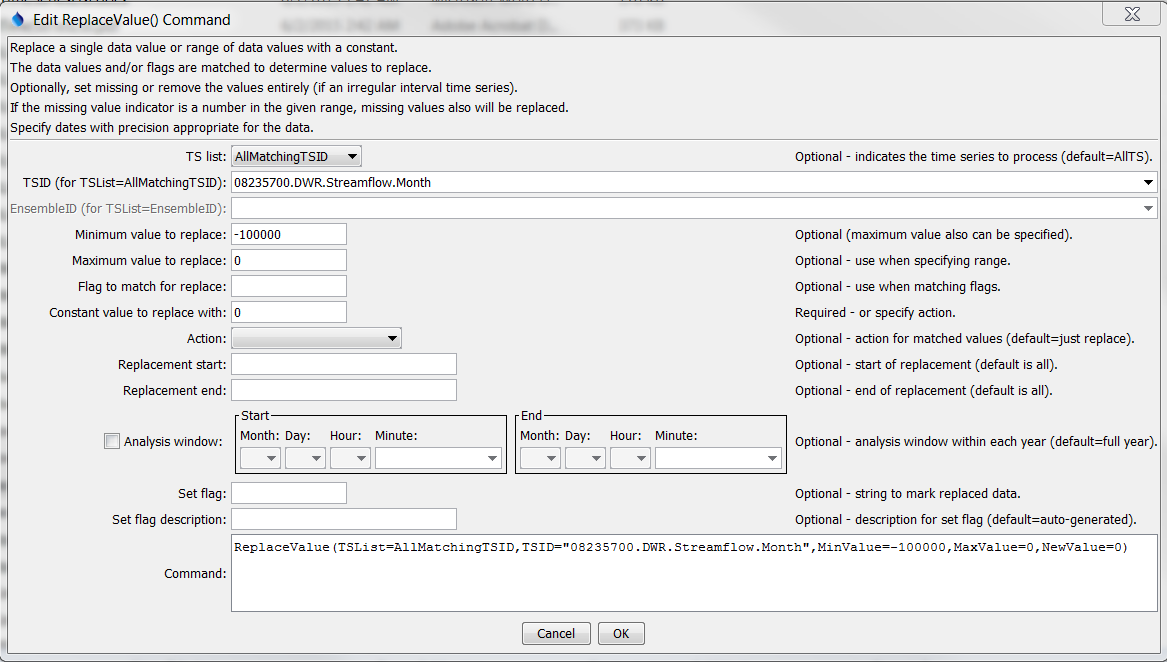
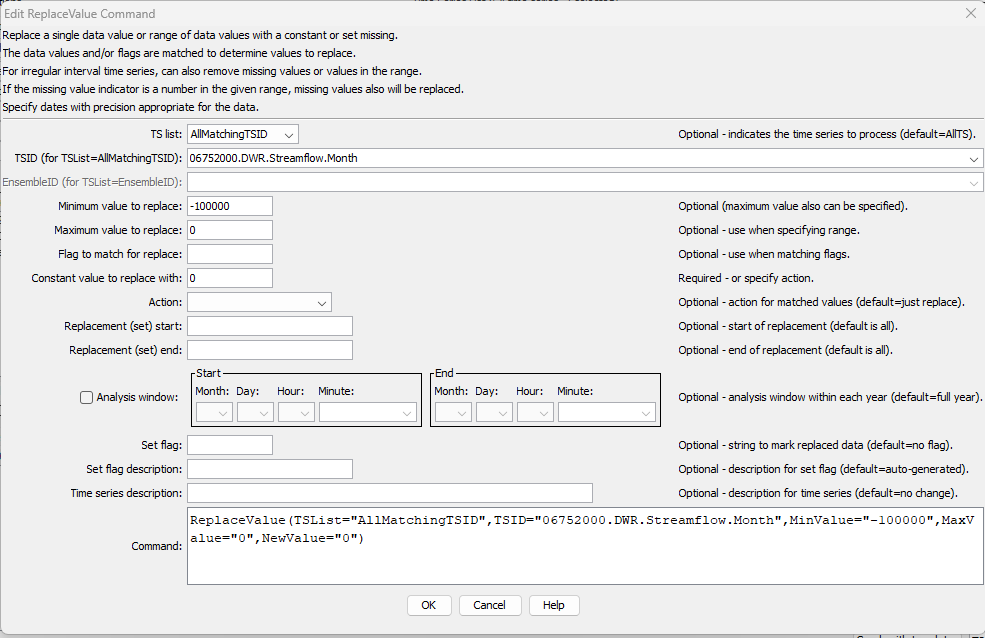
Update ReplaceValue documentation, issue #135
Also update TextEdit with more regular expression examples.
Command line options have been added to enable/disable datastores.

Changed region(s): [[0.0, 0.0, 1.0, 1.0]]

diff --git a/mkdocs-project/docs/command-ref/TextEdit/TextEdit.md b/mkdocs-project/docs/command-ref/TextEdit/TextEdit.md
@@ -3,6 +3,7 @@
 *   [Overview](#overview)
 *   [Command Editor](#command-editor)
 *   [Command Syntax](#command-syntax)
+    +   [Search and Replace Example Patterns](#search-and-replace-example-patterns)
 *   [Examples](#examples)
 *   [Troubleshooting](#troubleshooting)
 *   [See Also](#see-also)
@@ -20,7 +21,7 @@ In the future this command may be enhanced to add the following features:
 *   allow multiple operations in one command
 
 The search and replace functionality is implemented using Java pattern matching and regular expressions
-(see [`Pattern`](https://docs.oracle.com/javase/8/docs/api/java/util/regex/Pattern.html) class documentation).
+(see the Java [`Pattern`](https://docs.oracle.com/javase/8/docs/api/java/util/regex/Pattern.html) class documentation).
 It can be complicated to deal with special characters and patterns as they are processed
 through TSTool commands and underlying Java code.
 For example, some patterns pass through to the underlying code without changes whereas others
@@ -30,18 +31,6 @@ The following examples illustrate how to perform common search and replace tasks
 The [`ReadPropertiesFromFile`](../ReadPropertiesFromFile/ReadPropertiesFromFile.md) command
 can be used to read one or more properties from a text file
 and the property values can be used to replace text in an initial file.
-
-**<p style="text-align: center;">
-Search and Replace Examples
-</p>**
-
-| **`SearchFor`**&nbsp;&nbsp;&nbsp;&nbsp;&nbsp;&nbsp;&nbsp;&nbsp;&nbsp;&nbsp;&nbsp;&nbsp;&nbsp;&nbsp;&nbsp;&nbsp;&nbsp;&nbsp;&nbsp;&nbsp;&nbsp;&nbsp;&nbsp;&nbsp;&nbsp;&nbsp;&nbsp;&nbsp;&nbsp;&nbsp;&nbsp;&nbsp;&nbsp;&nbsp;&nbsp;&nbsp;&nbsp;&nbsp; | **`ReplaceWith`**&nbsp;&nbsp;&nbsp;&nbsp;&nbsp;&nbsp;&nbsp;&nbsp;&nbsp;&nbsp;&nbsp;&nbsp;&nbsp;&nbsp;&nbsp;&nbsp;&nbsp;&nbsp;&nbsp;&nbsp;&nbsp;&nbsp;&nbsp;&nbsp;&nbsp;&nbsp;&nbsp;&nbsp;&nbsp;&nbsp;&nbsp;&nbsp;&nbsp;&nbsp;&nbsp;&nbsp;&nbsp;&nbsp;&nbsp;&nbsp; | **Description** |
-| -- | -- | -- |
-| `\r\n` | `\n` | Replace Windows end of line with Linux end of line. | 
-| `\n` | `\r\n` | Replace Linux end of line Windows end of line with Linux end of line. | 
-| `StationId` | `\$\{StationId}` | Replace the static string `StationId` with a property `${StationId}`.  The dollar sign has special meaning to the pattern matcher (end of line) and braces also have meaning.  Additionally, using `${` directly causes TSTool to try to replace with a property value.  Using backslashes in front of the first two characters in the `ReplaceWith` parameter allows the string to pass through TSTool and pattern matcher without interpretation. |
-| `Some.*Text` | `SomeNewText` | The `*` typically cannot be used alone and therefore `.*` indicates "any character followed by one or more characters".  The example shows how intervening characters in the original string can be replaced with new text. |
-| `SomeFile\..*\.ext` | `SomeFile\.ABC\.ext` | Similar to previous example except escape the period from interpretation by pattern matcher and treat literally, needed when handling filenames with extensions. |
 
 ## Command Editor ##
 
@@ -73,10 +62,29 @@ Command Parameters
 | **Parameter**&nbsp;&nbsp;&nbsp;&nbsp;&nbsp;&nbsp;&nbsp;&nbsp;&nbsp;&nbsp;&nbsp;&nbsp;&nbsp;&nbsp;&nbsp;&nbsp;&nbsp;&nbsp;&nbsp;&nbsp;&nbsp; | **Description** | **Default**&nbsp;&nbsp;&nbsp;&nbsp;&nbsp;&nbsp;&nbsp;&nbsp;&nbsp;&nbsp; |
 | --------------|-----------------|----------------- |
 | `InputFile`<br>**required** | The name of the input file.  Can be specified using `${Property}`. | None - must be specified. |
-| `SearchFor`<br>**required** | The literal string to search for in the input file.  Can be specified using `${Property}`. | None - must be specified. |
-| `ReplaceWith`<br>**required** | The literal string to use for the replacement string in the output file.  Can be specified using `${Property}`.<br>Use the syntax `\$\{Property}` to insert property notation in the output file. | None - must be specified. |
+| `SearchFor`<br>**required** | The string to search for in the input file.  Can be specified using `${Property}`. See the examples in [Search and Replace Example Patterns](#search-and-replace-example-patterns). | None - must be specified. |
+| `ReplaceWith`<br>**required** | The string to use for the replacement string in the output file.  See the examples in [Search and Replace Example Patterns](#search-and-replace-example-patterns). | None - must be specified. |
 | `OutputFile`<br>**required** | The name of the output file.  Can be specified using `${Property}`. | None - must be specified. |
 | `IfInputNotFound` | Indicate an action if the source file is not found:  `Ignore` (ignore the missing file and do not warn), `Warn` (generate a warning message), `Fail` (generate a failure message) | `Warn` |
+
+### Search and Replace Example Patterns ###
+
+The following table lists various combinations of `SearchFor` and `ReplaceWith` command parameter values.
+The dollar sign has special meaning to the pattern matcher (end of line) and braces also have meaning.  Using `${ }` directly causes TSTool to try to replace with a property value.  Using backslashes in front of characters allows the string to pass through TSTool without being interpreted as a processor `${Property}` so that the pattern matcher can handle.
+
+**<p style="text-align: center;">
+Search and Replace Example Patterns
+</p>**
+
+| **`SearchFor`**&nbsp;&nbsp;&nbsp;&nbsp;&nbsp;&nbsp;&nbsp;&nbsp;&nbsp;&nbsp;&nbsp;&nbsp;&nbsp;&nbsp;&nbsp;&nbsp;&nbsp;&nbsp;&nbsp;&nbsp;&nbsp;&nbsp;&nbsp;&nbsp;&nbsp;&nbsp;&nbsp;&nbsp;&nbsp;&nbsp;&nbsp;&nbsp;&nbsp;&nbsp;&nbsp;&nbsp;&nbsp;&nbsp; | **`ReplaceWith`**&nbsp;&nbsp;&nbsp;&nbsp;&nbsp;&nbsp;&nbsp;&nbsp;&nbsp;&nbsp;&nbsp;&nbsp;&nbsp;&nbsp;&nbsp;&nbsp;&nbsp;&nbsp;&nbsp;&nbsp;&nbsp;&nbsp;&nbsp;&nbsp;&nbsp;&nbsp;&nbsp;&nbsp;&nbsp;&nbsp;&nbsp;&nbsp;&nbsp;&nbsp;&nbsp;&nbsp;&nbsp;&nbsp;&nbsp;&nbsp; | **Description** |
+| -- | -- | -- |
+| `\r\n` | `\n` | Replace Windows end of line with Linux end of line. | 
+| `\n` | `\r\n` | Replace Linux end of line Windows end of line with Linux end of line. | 
+| `StationId` | `\$\{StationId}` | Replace the static string `StationId` with a property `${StationId}`. |
+| `Some.*Text` | `SomeNewText` | The `*` typically cannot be used alone and therefore `.*` indicates "any character followed by one or more characters".  The example shows how intervening characters in the original string can be replaced with new text. |
+| `SomeFile\..*\.ext` | `SomeFile\.ABC\.ext` | Similar to previous example except escape the period from interpretation by pattern matcher and treat literally, needed when handling filenames with extensions. |
+| `\$\{StationId\}` | `1234` | Replace the string `${StationId}` with a literal string `1234`. |
+| `\$\{StationId\}` | `${StationId}` | Replace the string `${StationId}` with the property value in `{StationId}`. |
 
 ## Examples ##
 

diff --git a/mkdocs-project/docs/command-ref/ReplaceValue/ReplaceValue.md b/mkdocs-project/docs/command-ref/ReplaceValue/ReplaceValue.md
@@ -11,9 +11,19 @@
 
 ## Overview ##
 
-The `ReplaceValue` command replaces a range of values in a time series with a constant value,
-sets the values to missing, or removes the values (if an irregular time series).
-If the missing value indicator is a number in the range, missing values also will be replaced.
+The `ReplaceValue` command performs the following tasks:
+
+*  replaces a range of numerical values in a time series with a constant value
+*  or sets the values to missing
+
+Irregular interval time series, which store each date/time and value, can also be updated to:
+
+*   remove values matching the numerical range
+*   remove missing values
+
+If the missing value indicator is a number in the range (e.g., `-999`), missing values also will be replaced.
+The current convention is to use `NaN` for missing, which is handled without specifying a range.
+
 The time series data flag can be checked in place of or addition to checking the numerical values.
 This command is useful for filtering out erroneous data values.
 See also the [`CheckTimeSeries`](../CheckTimeSeries/CheckTimeSeries.md) command,
@@ -55,7 +65,7 @@ Command Parameters
 |`MaxValue`|The maximum value to replace.|If not specified, only data values that exactly match the minimum value will be replaced.|
 |`MatchFlag`|The flag to match.  If specified in addition to `MinValue`, then the value and flag must be matched in order to perform the replacement.  A case-sensitive comparison is made and the data value flag must exactly match MatchFlag.  In the future additional flexibility may be added to match a substring, etc. If `Action=SetMissing`, the original data flag value will remain.  Specifying `SetFlag` will result in the original data flag being modified.|`MinValue` and/or `MatchFlag` must be specified.|
 |`NewValue`|The new data value.|Required, unless the Action parameter is specified.|
-|`Action`|An additional action to take with values that are matched:<ul><li>`Remove` – remove the data points.  This can only be specified for irregular interval time series and will be interpreted as SetMissing for regular interval time series.</li><li>`SetMissing` – set values to missing.</li></ul>|No additional action is taken and the `NewValue` parameter must be specified.|
+|`Action`|An additional action to take with values that are matched:<ul><li>`Remove` – remove the data points.  This can only be specified for irregular interval time series and will be interpreted as `SetMissing` for regular interval time series.</li><li>`RemoveMissing` - remove missing values.  This can only be specified for irregular interval time series.</li><li>`SetMissing` – set values to missing.</li></ul>|No special action is taken.  The `NewValue` parameter must be specified.|
 |`SetStart`|The date/time to start filling, if other than the full time series period.  Can be specified with processor `${Property}`.|Check the full period.|
 |`SetEnd`|The date/time to end filling, if other than the full time series period.  Can be specified with processor `${Property}`.|Check the full period.|
 |`AnalysisWindowStart`|The starting date/time within the calendar year to replace data.  The window CANNOT cross calendar year boundaries (this may be allowed in the future).  Use multiple commands if necessary.|Process each full year.|
@@ -67,7 +77,8 @@ Command Parameters
 
 See the [automated tests](https://github.com/OpenCDSS/cdss-app-tstool-test/tree/master/test/commands/ReplaceValue).
 
-A sample command file to process a time series from the [State of Colorado’s HydroBase database](../../datastore-ref/CO-HydroBase/CO-HydroBase.md)
+A sample command file to remove negative values from a time series from the
+[State of Colorado’s HydroBase database](../../datastore-ref/CO-HydroBase/CO-HydroBase.md)
 is as follows:
 
 ```text

diff --git a/mkdocs-project/docs/command-ref/AppendFile/AppendFile.md b/mkdocs-project/docs/command-ref/AppendFile/AppendFile.md
@@ -70,8 +70,8 @@ Command Parameters
 |`InputFile`|The name of one or more files to append, specified as file patterns separated by commas:<ul><li>No `*` in filename – match one file</li><li>`*`– match all files in input directory (working directory by default).</li><li>`*.ext` – match all files with extension</li></ul><br>Can specify using processor `${Property}`.| Specify file pattern(s) or text to append.|
 | `AppendText` | Text to append to the input file. | Specify `InputFile` or text. |
 |`OutputFile`<br>**required**|The output file that will be created from input.  The file is created if it does not exist.  If the output file matches an input file, the input file will be overwritten.  Use the [`RemoveFile`](../RemoveFile/RemoveFile.md) command to remove the old file.  Can specify using processor `${Property}`.|None – must be specified.|
-|`IncludeText`|A regular expression pattern to include text.  Only the matching lines will be included.  `*` can be used as wildcard to match beginning and ending of a string.  The `*` is converted to `.*` and the pattern uses the [Java regular expression syntax](https://en.wikipedia.org/wiki/Regular_expression).|Append all lines.|
-|`ExcludeText`|A regular expression pattern to exclude text.  `*` can be used as wildcard to match beginning and ending of a string.  Matching lines will be excluded from the append.|Append all lines.|
+|`IncludeText`|A regular expression pattern to include text.  Only the matching lines will be included.  `*` can be used as wildcard to match beginning and ending of a string.  The `*` is converted to `.*` and the pattern uses the [Java regular expression syntax](https://en.wikipedia.org/wiki/Regular_expression). Can include `${Property}` notation, which is evaluated before the regular expression is interpreted. If the file contains the literal string `${Something}`, use `*\$\{Something\}*`. |Append all lines.|
+|`ExcludeText`|A regular expression pattern to exclude text.  `*` can be used as wildcard to match beginning and ending of a string.  Matching lines will be excluded from the append. Can include `${Property}` notation, which is evaluated before the regular expression is interpreted. If the file contains the literal string `${Something}`, use `*\$\{Something\}*`. |Append all lines.|
 |`Newline`|Indicate the newline character to use at the end of lines.  Normally the operating system default is ok (`\n` for Linux and for Mac, `\r\n for Windows`), but the newline may need to be specified to ensure cross-platform compatibility.|Operating system default.|
 |`IfNotFound`|Indicate action if the file is not found, one of:<ul><li>`Ignore` – ignore the missing file (do not warn).</li><li>`Warn` – generate a warning (use this if the file truly is expected and a missing file is a cause for concern).</li><li>`Fail` – generate a failure (use this if the file truly is expected and a missing file is a cause for concern).</li></ul>|`Warn`|
 
@@ -79,7 +79,7 @@ The following table lists regular expression examples:
 
 |**`IncludeText` Regular Expression**&nbsp;&nbsp;&nbsp;&nbsp;&nbsp;&nbsp;&nbsp;&nbsp;|**Description**|
 |--------------|-----------------|
-|`*\Q-\E*`|Match lines that start with any character, end with any character, and contain a dash.  The `\Q` and `\E` characters are special characters to start and end a quoted character, and are necessary because the dash has special meaning in a regular expression.|
+|`*\Q-\E*`|Match lines that start with any character, end with any character, and contain a dash, for example to match lines with ISO 8601 date/time (`2022-01-01`, etc.).  The `\Q` and `\E` characters are special characters to start and end a quoted character, and are necessary because the dash has special meaning in a regular expression.|
 
 ## Examples ##
 

diff --git a/mkdocs-project/docs/command-ref/SetTimeSeriesPropertiesFromTable/SetTimeSeriesPropertiesFromTable.md b/mkdocs-project/docs/command-ref/SetTimeSeriesPropertiesFromTable/SetTimeSeriesPropertiesFromTable.md
@@ -50,11 +50,11 @@ Command Parameters
 | `TSList`|Indicates the list of time series to be processed, one of:<br><ul><li>`AllMatchingTSID` – all time series that match the TSID (single TSID or TSID with wildcards) will be processed.</li><li>`AllTS` – all time series before the command.</li><li>`EnsembleID` – all time series in the ensemble will be processed (see the EnsembleID parameter).</li><li>`FirstMatchingTSID` – the first time series that matches the TSID (single TSID or TSID with wildcards) will be processed.</li><li>`LastMatchingTSID` – the last time series that matches the TSID (single TSID or TSID with wildcards) will be processed.</li><li>`SelectedTS` – the time series are those selected with the [`SelectTimeSeries`](../SelectTimeSeries/SelectTimeSeries.md) command.</li></ul> | `AllTS` |
 | `TSID`|The time series identifier or alias for the time series to be processed, using the `*` wildcard character to match multiple time series.  Can be specified using `${Property}`.|Required if `TSList=*TSID`|
 | `EnsembleID`|The ensemble to be processed, if processing an ensemble. Can be specified using `${Property}`.|Required if `TSList=*EnsembleID`|
-|`TableID`<br>**required**|The identifier for the table that contains properties.|None – must be specified.|
-|`TableTSIDColumn`<br>**required**|Table column name that is used to match the time series identifier for processing.|None – must be specified.|
+|`TableID`<br>**required**|The identifier for the table that contains properties.  Can be specified using `${Property}`. |None – must be specified.|
+|`TableTSIDColumn`<br>**required**|Table column name that is used to match the time series identifier for processing.  Can be specified using `${Property}`. |None – must be specified.|
 |`TableTSIDFormat`|The specification to format the time series identifier to match the `TSID` column.  Use the format choices and other characters to define a unique identifier.|Time series alias if available, or otherwise the time series identifier.|
-|`TableInputColumns`<br>**required**|The name(s) of the column(s) to supply properties for the matching time series.  Separate column names with commas.|None – must be specified.|
-|`TSPropertyNames`|Indicate property names that should be renamed from table column names using syntax:<br>`ColumnName1:TableProperty1,`<br>`ColumnName2:TableProperty2`<br>The special property name `${ts:Description}` will set the time series description to that of the column value.`|Same as `TableInputColumns`|
+|`TableInputColumns`<br>**required**|The name(s) of the column(s) to supply properties for the matching time series.  Separate column names with commas.  Can be specified using `${Property}`. |None – must be specified.|
+|`TSPropertyNames`|Indicate property names that should be renamed from table column names using syntax:<br>`ColumnName1:TableProperty1,`<br>`ColumnName2:TableProperty2`<br>The special property name `${ts:Description}` will set the time series description to that of the column value.  Can be specified using `${Property}`. |Same as `TableInputColumns`|
 
 ## Examples ##
 

diff --git a/mkdocs-project/docs/appendix-running/running.md b/mkdocs-project/docs/appendix-running/running.md
@@ -153,6 +153,8 @@ TSTool Command Line Parameters
 |`-config ConfigFile`<br><br>`--config ConfigFile`|Start TSTool using the specified configuration file.  This is useful in software test environments.|Start TSTool using the `system/TSTool.cfg` file under the software installation.|
 |`-dTerm,Log`|Specify the debug level (0+) for terminal and log file debug messages.  This is useful for printing troubleshooting messages at startup.  One or both values can be specified.|No debug messages are generated.|
 |`--datastore-substitute=`<br>`DatastoreNameToUse`,<br>`DatastoreNameInCommands`|Substitute a datastore name to use for a datastore name used in commands.  For example, all automated tests may use a datastore name `datastore-test` in command files and a production system's `DatastoreNameToUse` can be specified as a substitute using `--datastore-substitute=DatastoreNameToUse,datastore-test`. See the [Substitute Datastore Examples](#substitute-datastore-examples) documentation. | No substitutes - the datastore name in command files must match a configured datastore name. |
+| `--disabled-datastores=`<br>`datastore1,datastore2,...` | Disable the indicated datastores, used to optimize performance, especially for batch processing.  The datastore configuration file will be superseded by the command line parameter value. Specify multiple datastores separated with commas.  Use a glob-style regular expression with `*` to match a pattern.  Datastores are disabled after the `--enable-datastores` parameter is handled. | All enabled datastores in datastore configuration files are enabled. |
+| `--enabled-datastores=`<br>`datastore1,datastore2,...` | Enable the indicated datastores, used to optimize performance, especially for batch processing.  The datastore configuration file will be superseded by the command line parameter value. Specify multiple datastores separated with commas.  Use a glob-style regular expression with `*` to match a pattern.  Datastores are enabled before the `--disable-datastores` parameter is handled. | All enabled datastores in datastore configuration files are enabled. |
 |`-home InstallFolder`<br><br>`--home InstallFolder`|Specify the install folder.  This parameter is used internally by the TSTool launcher (Launch4J) and in the software development environment to specify the TSTool home, in order to locate other files.|Should always be set by the TSTool launcher.|
 |`-httpServer`<br>`--httpServer`|Run TSTool in headless mode to act as an HTTP server.  Experimental||
 |`-nodiscovery`<br>`--nodiscovery`|Do not run discovery on commands as they are loaded.  This can be used for large command files that will not be edited interactively, in order to decrease load time.|Run discovery on commands as they are loaded.|

diff --git a/mkdocs-project/docs/appendix-release-notes/release-notes-14.md b/mkdocs-project/docs/appendix-release-notes/release-notes-14.md
@@ -5,6 +5,7 @@ See also the [GitHub repository issues](https://github.com/OpenCDSS/cdss-app-tst
 for outstanding issues and enhancement requests.
 Issues may also be included in other repositories that are TSTool components.
 
+*   [Changes in Version 14.8.4](#changes-in-version-1484)
 *   [Changes in Version 14.8.3](#changes-in-version-1483)
 *   [Changes in Version 14.8.2](#changes-in-version-1482)
 *   [Changes in Version 14.8.1](#changes-in-version-1481)
@@ -33,6 +34,29 @@ Issues may also be included in other repositories that are TSTool components.
 *   [Release notes for all versions](release-notes.md)
 
 ----------
+
+## Changes in Version 14.8.4 ##
+
+**Maintenance release to fix issues when processing text files.** 
+
+*   ![change](change.png) [14.8.4] Update the [`AppendFile`](../command-ref/AppendFile/AppendFile.md) command:
+    +   The `IncludeText` and `ExcludeText` parameters can now include `${Property}` syntax.
+*   ![change](change.png) [14.8.4] Update the [`Copy`](../command-ref/Copy/Copy.md) command:
+    +   The history of the original time series was being updated with a note that a copy was made,
+        instead of a note in the new copy.
+*   ![change](change.png) [14.8.4] Update the [`ReplaceValue`](../command-ref/ReplaceValue/ReplaceValue.md) command:
+    +   Add the `RemoveMissing` action for irregular interval time series.
+    +   Change to not automatically append to the time series description.
+        The new `Description` command parameter can be used to change the description.
+    +   Fix a bug that was causing time series modified by this command to not display correctly in the table view.
+*   ![change](change.png) [14.8.4] Update the
+    [`SetTimeSeriesPropertiesFromTable`](../command-ref/SetTimeSeriesPropertiesFromTable/SetTimeSeriesPropertiesFromTable.md) command:
+    +   The following command parameters now accept `${Property}` notation:  `TSID`, `TableID`, `EnsembleID`, `TableInputColumns`, `TableTSIDColumn`.
+*   ![change](change.png) [14.8.4] Add the following command parameters to control which datastores are
+    enabled/disabled at run-time, useful for optimizing batch workflows.
+    +   `--enabled-datastores=dastore1,datastore2`
+    +   `--disabled-datastores=dastore1,datastore2`
+    +   See the TSTool [command line parameters](../appendix-running/running.md#tstool-command-line-parameters).
 
 ## Changes in Version 14.8.3 ##
 

diff --git a/mkdocs-project/docs/command-ref/WriteTableToExcel/WriteTableToExcel.md b/mkdocs-project/docs/command-ref/WriteTableToExcel/WriteTableToExcel.md
@@ -88,7 +88,7 @@ Command Parameters
 |**Parameter**&nbsp;&nbsp;&nbsp;&nbsp;&nbsp;&nbsp;&nbsp;&nbsp;&nbsp;&nbsp;&nbsp;&nbsp;&nbsp;&nbsp;&nbsp;&nbsp;&nbsp;&nbsp;&nbsp;&nbsp;&nbsp;&nbsp;&nbsp;&nbsp;&nbsp;&nbsp; | **Description** | **Default**&nbsp;&nbsp;&nbsp;&nbsp;&nbsp;&nbsp;&nbsp;&nbsp;&nbsp;&nbsp; |
 | --------------|-----------------|----------------- |
 |`TableID`|Identifier for table to write.  Can specify using processor `${Property}`.|None – must be specified.|
-|`IncludeColumns|Names of columns in table to write.|Write all columns.|
+|`IncludeColumns`|Names of columns in table to write.|Write all columns.|
 |`ExcludeColumns`|Names of columns in table to exclude from writing.|Write all columns.|
 |`ColumnIncludeFilters`|Indicate table column names and pattern to use to include rows.  For example, include rows with blanks in columns.  The format of the parameter is:<br>`ColumnName1:Pattern1,`<br>`ColumnName2:Pattern2,`<br>where patterns can contain `*` to match a substring.|Include all rows.|
 |`ColumnExcludeFilters`|Indicate table column names and pattern to use to exclude rows.  For example, exclude rows with blanks in columns.  The format of the parameter is:<br>`ColumnName1:Pattern1,`<br>`ColumnName2:Pattern2,`|<br>where patterns can contain `*` to match a substring.|Include all rows.|

diff --git a/mkdocs-project/docs/appendix-release-notes/release-notes.md b/mkdocs-project/docs/appendix-release-notes/release-notes.md
@@ -34,6 +34,7 @@ TSTool Version History Summary (most current at top)
 
 |**TSTool Version(s)**&nbsp;&nbsp;&nbsp;&nbsp;&nbsp;&nbsp;&nbsp;&nbsp;&nbsp;&nbsp;&nbsp;&nbsp;&nbsp;&nbsp;&nbsp;&nbsp;&nbsp;&nbsp;&nbsp;&nbsp;|**Summary of Major Changes in Version**|**Release Date**|
 |--|--|--|
+|[14.8.4](release-notes-14.md)|Maintenance release to fix issues when processing text files. | 2023-07-11 |
 |[14.8.3](release-notes-14.md)|Maintenance release to enable raster graph for hour and minute interval time series. | 2023-06-05 |
 |[14.8.2](release-notes-14.md)|Maintenance release to fix raster graphs when missing data. | 2023-05-30 |
 |[14.8.1](release-notes-14.md)|Maintenance release to support the new Zabbix plugin. | 2023-05-25 |

diff --git a/mkdocs-project/docs/index.md b/mkdocs-project/docs/index.md
@@ -12,7 +12,7 @@ This documentation is generally referred to as the **"User Documentation"** in c
 *   [About the Open Water Foundation](#about-the-open-water-foundation)
 *   [License](#license)
 *   [Source Repository on GitHub](#source-repository-on-github)
-*   [Release Notes](appendix-release-notes/release-notes-14.md) - **this documentation has been updated for TSTool version 14.8.3**
+*   [Release Notes](appendix-release-notes/release-notes-14.md) - **this documentation has been updated for TSTool version 14.8.4**
 
 ----------------
 

diff --git a/mkdocs-project/docs/datastore-ref/RCC-ACIS/RCC-ACIS.md b/mkdocs-project/docs/datastore-ref/RCC-ACIS/RCC-ACIS.md
@@ -31,7 +31,7 @@ however, technical issues remain, as described below.
 The standard time series identifier for RCC ACIS time series is of the form:
 
 ```text
-LacationType:Location.DataSource.DataType.Interval~DataStoreName
+LocationType:Location.DataSource.DataType.Interval~DataStoreName
 ```
 
 More specifically, the identifier follows the following convention:
